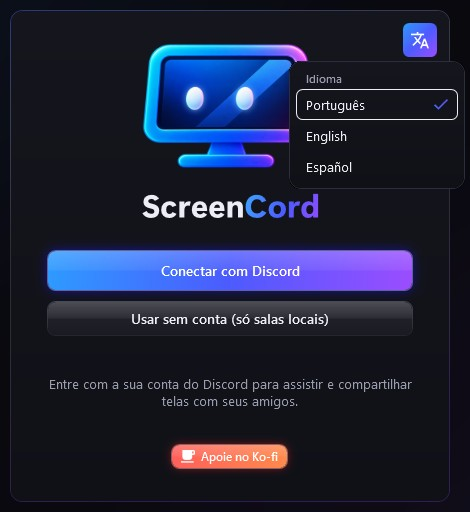
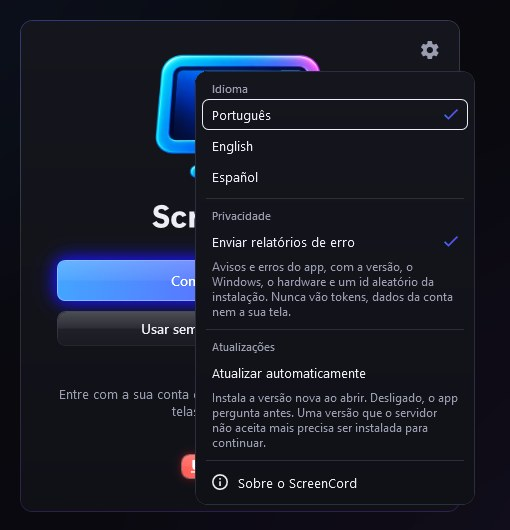
docs: landing e prints para a 0.9 (câmera, grade e fixar) (#13)

diff --git a/index.html b/index.html
@@ -4,7 +4,7 @@
 <meta charset="utf-8">
 <meta name="viewport" content="width=device-width, initial-scale=1">
 <title>ScreenCord: compartilhe a tela com seus amigos do Discord</title>
-<meta name="description" content="Entre com o Discord, monte grupos com seus amigos e compartilhe a tela em tempo real. Ou crie uma sala local, sem conta e sem servidor.">
+<meta name="description" content="Entre com o Discord, monte grupos com seus amigos e compartilhe a tela e a câmera em tempo real. Ou crie uma sala local, sem conta e sem servidor.">
 <link rel="canonical" href="https://screencord.miguelsoeth.online/">
 <meta name="theme-color" content="#0a0b10">
 <link rel="icon" type="image/png" href="icon.png">
@@ -15,11 +15,11 @@
 <meta property="og:locale" content="pt_BR">
 <meta property="og:url" content="https://screencord.miguelsoeth.online/">
 <meta property="og:title" content="ScreenCord: compartilhe a tela com seus amigos do Discord">
-<meta property="og:description" content="Entre com o Discord, monte grupos com seus amigos e compartilhe a tela em tempo real. Ou crie uma sala local, sem conta e sem servidor.">
+<meta property="og:description" content="Entre com o Discord, monte grupos com seus amigos e compartilhe a tela e a câmera em tempo real. Ou crie uma sala local, sem conta e sem servidor.">
 <meta property="og:image" content="https://screencord.miguelsoeth.online/img/sala-ao-vivo.jpg">
 <meta property="og:image:width" content="1280">
 <meta property="og:image:height" content="760">
-<meta property="og:image:alt" content="Sala do ScreenCord com uma tela compartilhada ao vivo">
+<meta property="og:image:alt" content="Sala do ScreenCord com quatro transmissões ao vivo em grade: duas telas e duas câmeras">
 <meta name="twitter:card" content="summary_large_image">
 <script type="application/ld+json">
 {
@@ -27,7 +27,7 @@
   "@type": "SoftwareApplication",
   "name": "ScreenCord",
   "url": "https://screencord.miguelsoeth.online/",
-  "description": "Entre com o Discord, monte grupos com seus amigos e compartilhe a tela em tempo real. Ou crie uma sala local, sem conta e sem servidor.",
+  "description": "Entre com o Discord, monte grupos com seus amigos e compartilhe a tela e a câmera em tempo real. Ou crie uma sala local, sem conta e sem servidor.",
   "applicationCategory": "CommunicationApplication",
   "operatingSystem": "Windows 10, Windows 11",
   "image": "https://screencord.miguelsoeth.online/img/sala-ao-vivo.jpg",
@@ -269,7 +269,7 @@
       </div>
     </div>
     <h1>Screen<span class="grad">Cord</span></h1>
-    <p class="tagline">Chame a galera para um grupo e assista à tela de quem está jogando, com som, como se estivesse do lado. Entra com o Discord, sem criar conta nova, ou usa sem conta numa sala local.</p>
+    <p class="tagline">Chame a galera para um grupo e assista à tela de quem está jogando, com som, e veja a câmera de todo mundo ao mesmo tempo, como se estivesse do lado. Entra com o Discord, sem criar conta nova, ou usa sem conta numa sala local.</p>
     <a id="download" class="btn" href="https://github.com/miguelsoeth/screencord/releases/latest" aria-disabled="true">
       <svg width="20" height="20" viewBox="0 0 24 24" fill="none" stroke="currentColor" stroke-width="2.2" stroke-linecap="round" stroke-linejoin="round" aria-hidden="true"><path d="M12 3v12"/><path d="m7 10 5 5 5-5"/><path d="M5 21h14"/></svg>
       <span id="download-label">Baixar para Windows</span>
@@ -279,7 +279,7 @@
   </div>
   <div class="hero-shot">
     <img class="shot" src="img/sala-ao-vivo.jpg" width="1280" height="760"
-         alt="Janela do ScreenCord: à esquerda, a transmissão ao vivo de um jogo de corrida; à direita, os grupos com quem está conectado e o selo AO VIVO; no alto, os botões Apoiar, amigos e idioma.">
+         alt="Janela do ScreenCord com quatro transmissões em grade: o jogo de corrida de um amigo, outra tela de jogo e duas câmeras; à direita, os grupos com quem está conectado, com o selo AO VIVO e o ícone de câmera, e os botões de compartilhar tela e câmera.">
   </div>
 </header>
 
@@ -298,7 +298,7 @@
       </div>
       <div class="panel">
         <h3>Clique em AO VIVO</h3>
-        <p>Quando alguém compartilhar, o selo aparece ao lado do nome. Um clique e você está assistindo.</p>
+        <p>Quando alguém compartilhar a tela ou ligar a câmera, o selo aparece ao lado do nome. Um clique e você está assistindo.</p>
       </div>
     </div>
   </section>
@@ -316,7 +316,35 @@
         </ul>
       </div>
       <img class="shot picker" src="img/compartilhar.jpg" width="560" height="600" loading="lazy"
-           alt="Janela Compartilhar tela numa sala local: Tela 1 escolhida, 1080p e 60 fps marcados, qualidade automática até 5 Mbps direto entre os computadores, e áudio ligado.">
+           alt="Janela Compartilhar tela: Tela 1 escolhida, 720p e 30 fps marcados, qualidade automática até 3 Mbps pelo servidor, e a opção de compartilhar o áudio do computador ligada.">
+    </div>
+
+    <div class="showcase flip">
+      <div class="showcase-text">
+        <h3>Tela e câmera, ao mesmo tempo</h3>
+        <p>A câmera tem o próprio botão, ao lado do de compartilhar, e fica no ar junto com a tela. Quem assiste a vê na grade, como mais uma tela.</p>
+        <ul>
+          <li>Veja a prévia antes de ligar: nada é transmitido até você clicar em Ativar câmera</li>
+          <li>Quem criou o grupo decide se a sala aceita tela, câmera ou os dois</li>
+          <li>Clique no seu próprio selo para se ver na grade ao lado dos outros, sem gastar banda</li>
+        </ul>
+      </div>
+      <img class="shot picker" src="img/grupo.jpg" width="460" height="630" loading="lazy"
+           alt="Painel do grupo Jogatina de sexta com cinco integrantes conectados e, em O grupo aceita, os interruptores de Compartilhamento de tela e Câmera (webcam) ligados.">
+    </div>
+
+    <div class="showcase">
+      <div class="showcase-text">
+        <h3>Várias telas numa grade só</h3>
+        <p>Assista a até quatro transmissões ao mesmo tempo, numa grade que se ajusta ao espaço da janela, sem mudar o tamanho dela.</p>
+        <ul>
+          <li>Fixe uma transmissão como principal: ela fica grande e as outras em miniatura ao lado</li>
+          <li>Volume, mudo e tela cheia (F11 ou clique duplo) em cada uma</li>
+          <li>Ao abrir a quinta, a mais antiga fecha</li>
+        </ul>
+      </div>
+      <img class="shot picker" src="img/fixar.jpg" width="1280" height="760" loading="lazy"
+           alt="Janela do ScreenCord com uma transmissão fixada como principal, grande, e outras três em miniatura na coluna ao lado: uma tela de jogo e duas câmeras.">
     </div>
 
     <div class="showcase flip">
@@ -326,12 +354,11 @@
         <ul>
           <li>Veja quem está conectado em cada grupo</li>
           <li>Entradas e saídas aparecem na hora</li>
-          <li>Assista em tela cheia com F11 ou um clique duplo</li>
-          <li>Ou veja até quatro telas ao mesmo tempo, numa grade que se ajusta à janela, com volume e tela cheia em cada uma</li>
+          <li>Todo mundo adiciona os próprios amigos ao grupo; só quem criou o exclui</li>
         </ul>
       </div>
       <img class="shot picker" src="img/amigos.jpg" width="520" height="364" loading="lazy"
-           alt="Menu de amigos do ScreenCord com busca por nome de usuário e solicitações recebidas para aceitar ou recusar.">
+           alt="Menu de amigos do ScreenCord com busca por nome de usuário e duas solicitações recebidas para aceitar ou recusar.">
     </div>
 
     <div class="showcase">
@@ -352,15 +379,15 @@
     <div class="showcase flip">
       <div class="showcase-text">
         <h3>Em português, inglês ou espanhol</h3>
-        <p>Troque o idioma quando quiser, no login ou no cabeçalho: a tela muda na hora.</p>
+        <p>Troque o idioma quando quiser, na engrenagem de Configurações, no login ou no cabeçalho: a tela muda na hora.</p>
         <ul>
           <li>O instalador pergunta o idioma na primeira instalação</li>
           <li>Sem escolha, vale o idioma do Windows</li>
-          <li>Entre com o Discord ou use sem conta, só nas salas locais</li>
+          <li>Em Configurações também ficam os relatórios de erro (dá para desligar) e a atualização automática</li>
         </ul>
       </div>
-      <img class="shot picker" src="img/login.jpg" width="470" height="512" loading="lazy"
-           alt="Tela inicial do ScreenCord com o menu de idiomas aberto (Português, English, Español) e os botões Conectar com Discord, Usar sem conta e Apoie no Ko-fi.">
+      <img class="shot picker" src="img/login.jpg" width="510" height="530" loading="lazy"
+           alt="Tela inicial do ScreenCord com o menu de Configurações aberto: Idioma (Português, English, Español), Privacidade, Atualizações e Sobre o ScreenCord.">
     </div>
   </section>
 
@@ -375,7 +402,7 @@
       <div class="panel">
         <div class="icon"><svg viewBox="0 0 24 24" fill="none" stroke="currentColor" stroke-width="2" stroke-linecap="round" stroke-linejoin="round" aria-hidden="true"><circle cx="9" cy="8" r="3.5"/><path d="M2.5 20a6.5 6.5 0 0 1 13 0"/><path d="M16 4.5a3.5 3.5 0 0 1 0 7"/><path d="M18.5 14a6.5 6.5 0 0 1 3 6"/></svg></div>
         <h3>Grupos</h3>
-        <p>Salas com seus amigos, mostrando quem está conectado.</p>
+        <p>Salas com seus amigos, mostrando quem está conectado e quem está ao vivo. Cada grupo escolhe se aceita tela, câmera ou os dois.</p>
       </div>
       <div class="panel">
         <div class="icon"><svg viewBox="0 0 24 24" fill="none" stroke="currentColor" stroke-width="2" stroke-linecap="round" stroke-linejoin="round" aria-hidden="true"><rect x="9" y="2" width="6" height="6" rx="1"/><rect x="2" y="16" width="6" height="6" rx="1"/><rect x="16" y="16" width="6" height="6" rx="1"/><path d="M12 8v4"/><path d="M5 16v-4h14v4"/></svg></div>
@@ -384,8 +411,8 @@
       </div>
       <div class="panel">
         <div class="icon"><svg viewBox="0 0 24 24" fill="none" stroke="currentColor" stroke-width="2" stroke-linecap="round" stroke-linejoin="round" aria-hidden="true"><rect x="2" y="3" width="20" height="14" rx="2"/><path d="M8 21h8"/><path d="M12 17v4"/></svg></div>
-        <h3>Tela ou janela</h3>
-        <p>Mostre a tela inteira ou só o jogo, sem expor o resto da área de trabalho.</p>
+        <h3>Tela, janela ou câmera</h3>
+        <p>Mostre a tela inteira, só o jogo ou a sua câmera, sem expor o resto da área de trabalho. Tela e câmera podem ir juntas.</p>
       </div>
       <div class="panel">
         <div class="icon"><svg viewBox="0 0 24 24" fill="none" stroke="currentColor" stroke-width="2" stroke-linecap="round" stroke-linejoin="round" aria-hidden="true"><path d="M11 5 6 9H2v6h4l5 4z"/><path d="M15.5 8.5a5 5 0 0 1 0 7"/><path d="M19 5a10 10 0 0 1 0 14"/></svg></div>
@@ -395,7 +422,7 @@
       <div class="panel">
         <div class="icon"><svg viewBox="0 0 24 24" fill="none" stroke="currentColor" stroke-width="2" stroke-linecap="round" stroke-linejoin="round" aria-hidden="true"><path d="M4 9V5h4"/><path d="M20 9V5h-4"/><path d="M4 15v4h4"/><path d="M20 15v4h-4"/></svg></div>
         <h3>Várias telas</h3>
-        <p>Assista na janela do app, em tela cheia (F11 ou clique duplo) ou a até quatro transmissões lado a lado.</p>
+        <p>Assista na janela do app, em tela cheia (F11 ou clique duplo) ou a até quatro transmissões lado a lado, com uma fixada como principal.</p>
       </div>
       <div class="panel">
         <div class="icon"><svg viewBox="0 0 24 24" fill="none" stroke="currentColor" stroke-width="2" stroke-linecap="round" stroke-linejoin="round" aria-hidden="true"><path d="m5 8 6 6"/><path d="m4 14 6-6 2-3"/><path d="M2 5h12"/><path d="M7 2h1"/><path d="m22 22-5-10-5 10"/><path d="M14 18h6"/></svg></div>
@@ -424,6 +451,10 @@
     <details class="panel">
       <summary>Preciso de conta no Discord?</summary>
       <p>Só para os grupos com amigos pela internet. Para assistir junto na mesma rede (LAN, Hamachi, Radmin ou Tailscale), escolha <strong>Usar sem conta</strong> na tela inicial e entre numa sala local só com um nome.</p>
+    </details>
+    <details class="panel">
+      <summary>Posso usar a câmera?</summary>
+      <p>Pode. Clique no botão da câmera, ao lado do de compartilhar: o app mostra uma prévia e só transmite depois que você clicar em <strong>Ativar câmera</strong>. Ela vai sem áudio, em até 720p a 30 fps. Quem criou o grupo (ou quem hospeda a sala local) pode desligar a câmera, a tela ou as duas para aquela sala.</p>
     </details>
     <details class="panel">
       <summary>O app vê a minha senha ou as minhas mensagens?</summary>
